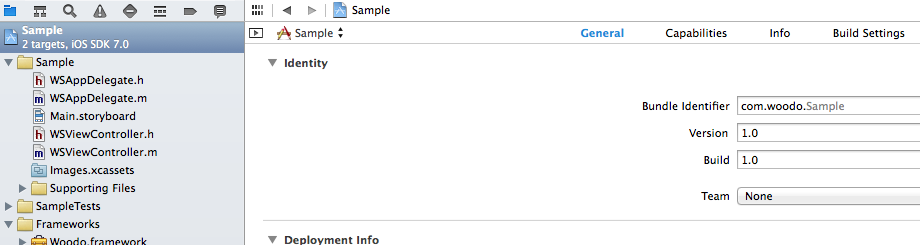
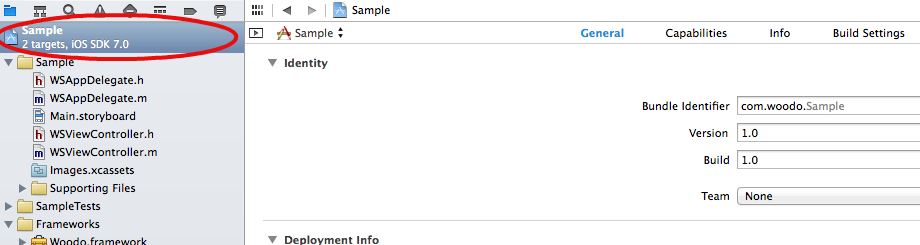
Added select target screenshot

Changed region(s): [[0.0, 0.1143, 0.2739, 0.2571], [0.0, 0.0286, 0.213, 0.1429], [0.213, 0.0857, 0.2435, 0.1143]]

diff --git a/README.md b/README.md
@@ -63,7 +63,7 @@ Installation
 
     4. Select project target
 
-      // TODO: Add screenshot
+      ![Alt text](/ReadmeAssets/Common/selectproject.png "Select target")
 
     5. Select "Build settings" tab
 
